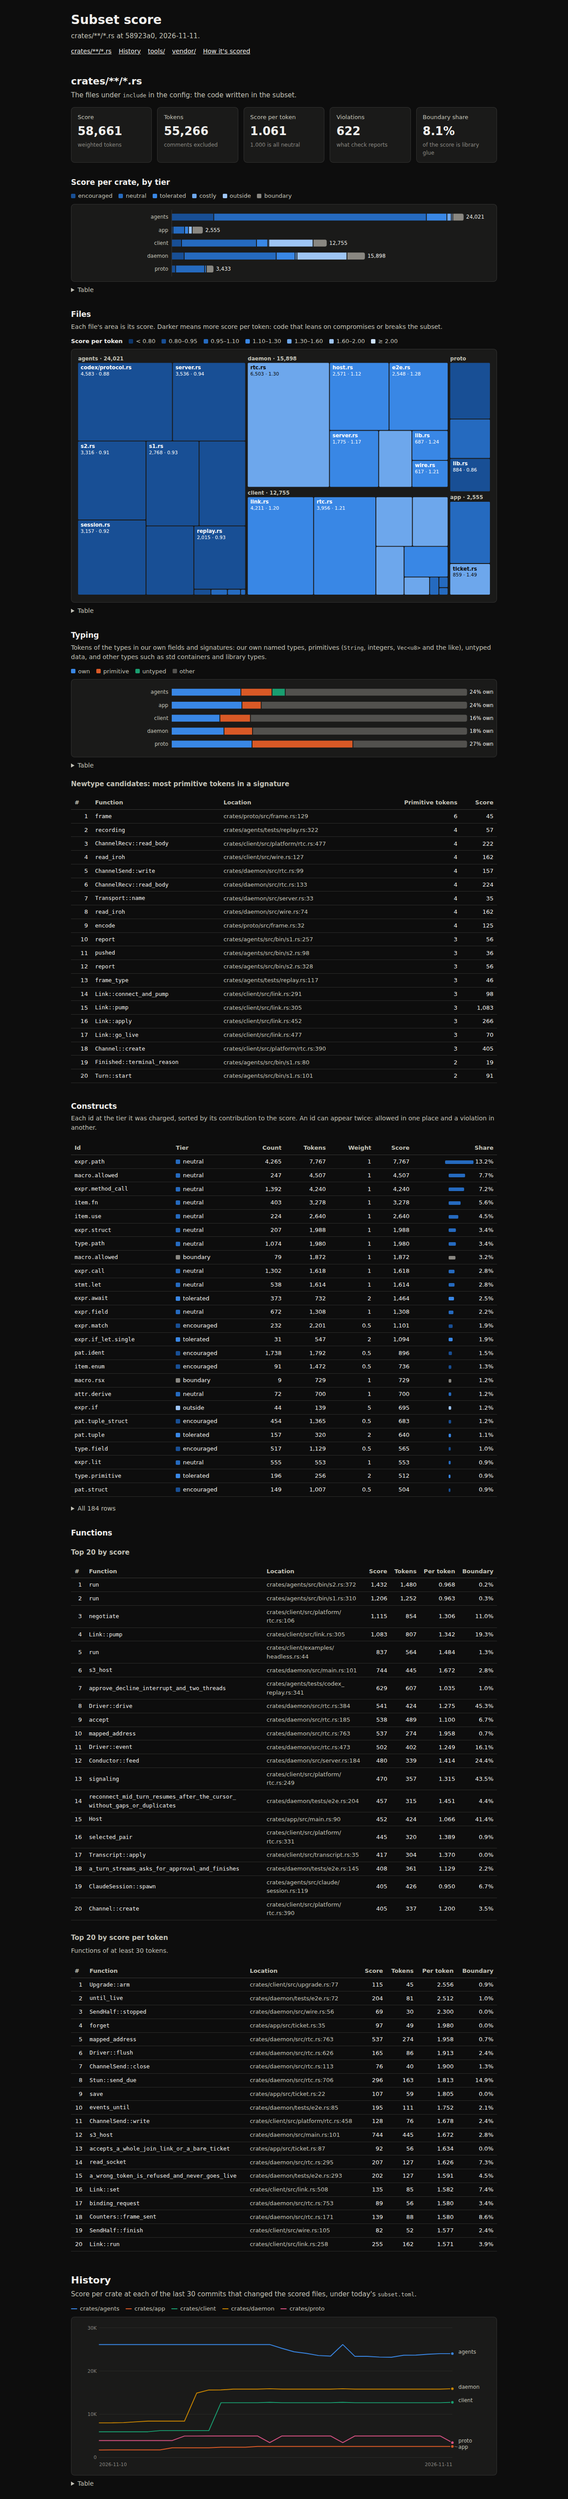
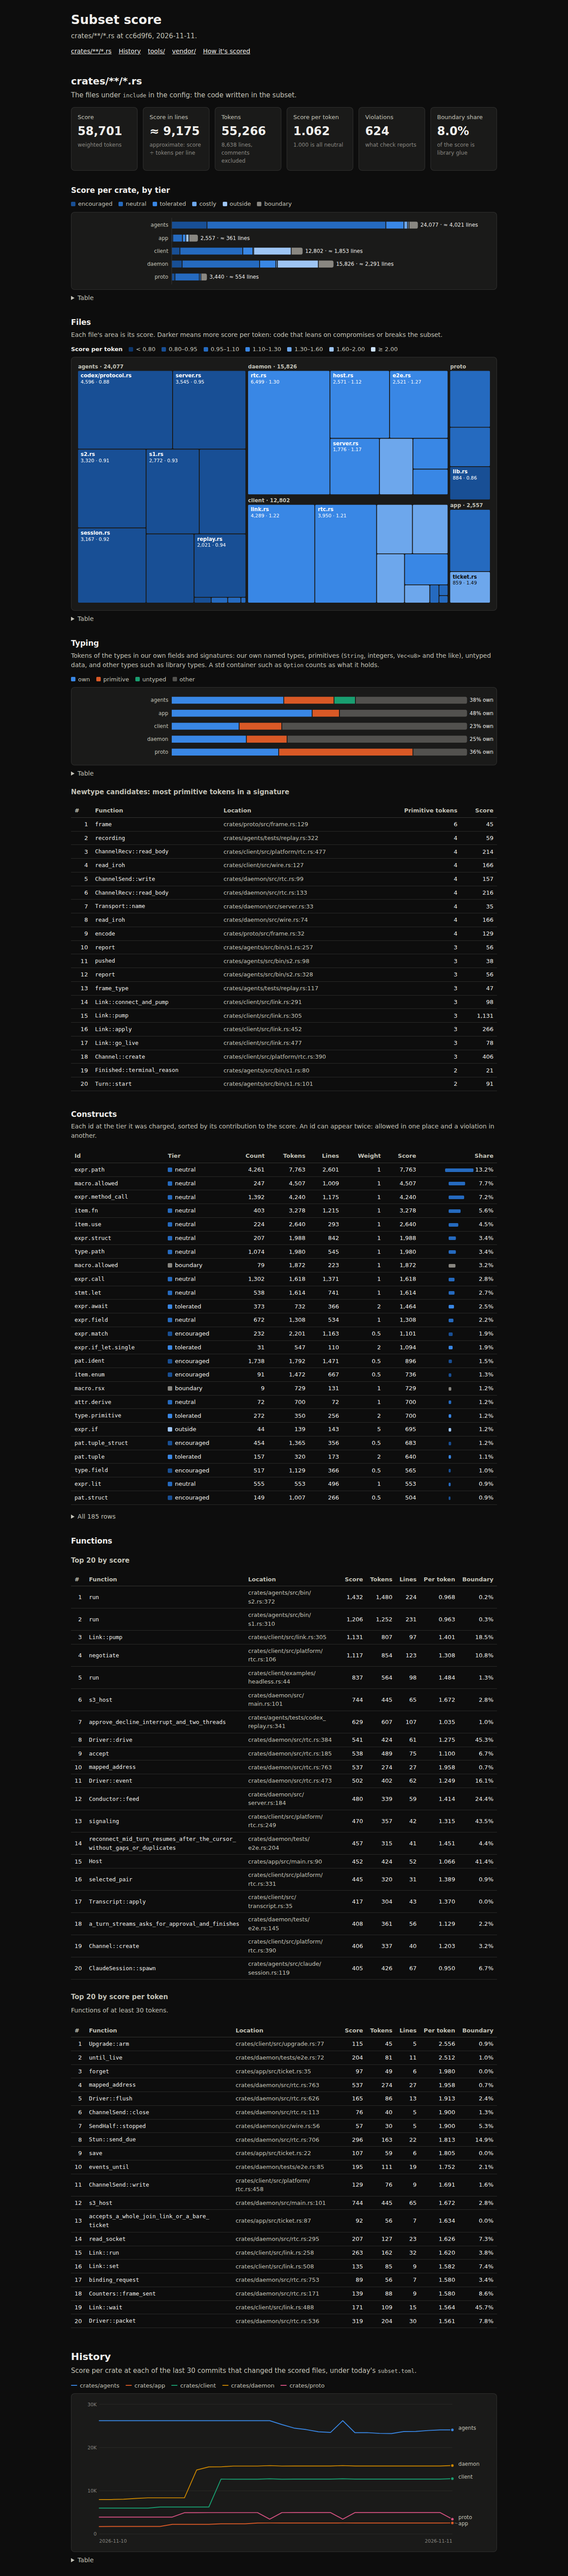
Fit the score-in-lines tile and regenerate the report previews
The tile shows "≈ N" under its label so six tiles fit one row on a
desktop. The previews are rendered with headless Chromium at 1280 and
390 px, light and dark, cropped to the main group and history.

diff --git a/tools/subset/src/report.rs b/tools/subset/src/report.rs
@@ -105,8 +105,8 @@ fn tiles(total: &Row, violations: usize, w: &TierWeights) -> String {
         )
     };
     let in_lines = format!(
-        "<div class=\"tile\" title=\"{APPROX_LINES}\"><div class=\"label\">Score in lines</div><div class=\"value\">{}</div><div class=\"hint\">approximate: score ÷ tokens per line</div></div>",
-        approx_lines(total, w)
+        "<div class=\"tile\" title=\"{APPROX_LINES}\"><div class=\"label\">Score in lines</div><div class=\"value\">≈ {}</div><div class=\"hint\">approximate: score ÷ tokens per line</div></div>",
+        whole(total.approx_lines(w))
     );
     format!(
         "<div class=\"tiles\">{}{in_lines}{}{}{}{}</div>",
@@ -1126,7 +1126,7 @@ h2 { font-size: 22px; margin: 0 0 4px; }
 h3 { font-size: 17px; margin: 32px 0 4px; }
 h4 { font-size: 15px; margin: 20px 0 8px; color: var(--text-secondary); font-weight: 600; }
 .badge { font-size: 12px; font-weight: 600; text-transform: uppercase; letter-spacing: 0.04em; border: 1px solid var(--axis); border-radius: 4px; padding: 1px 6px; vertical-align: 3px; color: var(--text-secondary); }
-.tiles { display: grid; grid-template-columns: repeat(auto-fit, minmax(160px, 1fr)); gap: 12px; margin: 16px 0; }
+.tiles { display: grid; grid-template-columns: repeat(auto-fit, minmax(140px, 1fr)); gap: 12px; margin: 16px 0; }
 .tile { background: var(--surface-1); border: 1px solid var(--border); border-radius: 8px; padding: 12px 14px; }
 .tile .label { font-size: 13px; color: var(--text-secondary); }
 .tile .value { font-size: 26px; font-weight: 600; margin: 2px 0; }

diff --git a/tools/subset/tests/cli.rs b/tools/subset/tests/cli.rs
@@ -1774,7 +1774,7 @@ fn report_html_writes_one_static_page_with_history() {
     // History: the first commit's enum alone scored 3.0.
     for expected in [
         "<div class=\"value\">29</div>",
-        "<div class=\"value\">≈ 3 lines</div>",
+        "<div class=\"value\">≈ 3</div>",
         "<div class=\"value\">40</div>",
         "4 lines, comments excluded",
         "40 tokens · 4 lines, score ≈ 3 lines",
